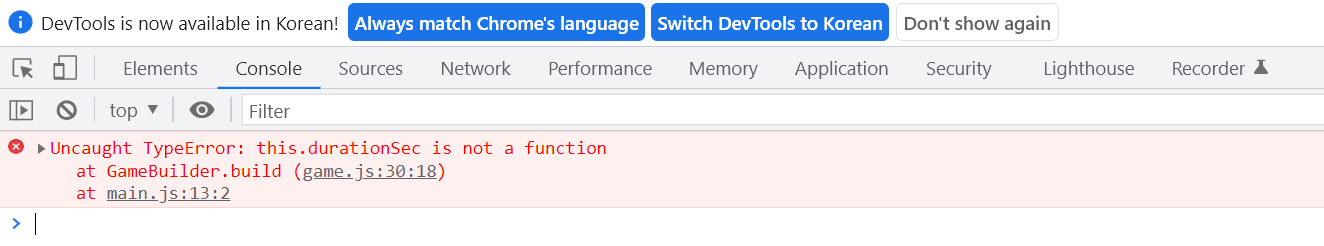
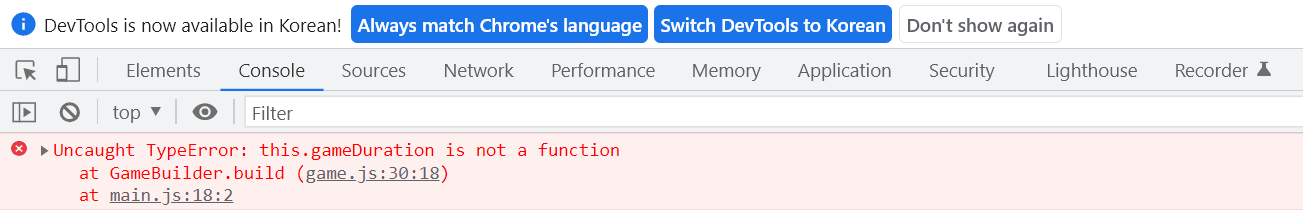
Fix image of error regarding 6-12

Changed region(s): [[0.0, 0.0, 1.0, 0.8815], [0.0, 0.8815, 1.0, 0.9953], [0.0, 0.8815, 0.0307, 0.9384]]

diff --git a/refactoring/src/game.js b/refactoring/src/game.js
@@ -27,10 +27,10 @@ export default class GameBuilder {
 
     build() {
         return new Game(
-            this.gameDuration,
-            this.carrotCount,
-            this.bugCount,
-            this.carrotSize
+            this.gameDuration(),
+            this.carrotCount(),
+            this.bugCount(),
+            this.carrotSize()
         )
     }
 }

diff --git a/README_carrot-game.md b/README_carrot-game.md
@@ -1230,26 +1230,26 @@
 
 #### 6-12.
 
-- symptom: Uncaught TypeError message was displayed on console tab such as `this.durationSec is not a function`. In addtion, `intermediate value error` occurred intermittently. I used variables on `GameBuilder` with same name variables on `Game` together at only one file. I think conflict of variable between `GameBuilder` and `Game` maybe occurred.
+- symptom: Uncaught TypeError message was displayed on console tab such as `this.durationSec is not a function`. In addtion, `intermediate value error` occurred intermittently. I used variables on `GameBuilder` with same name variables on `Game` together at only one file. I think conflict of variables between `GameBuilder` and `Game` maybe occurred.
 
 - In case of game.js,
   `export default class GameBuilder` {
   `build()` {
   `return new Game(`
-  `this.gameduration(),`
-  `this.carrotcount(),`
-  `this.bugcount(),`
-  `this.carrotsize()`
+  `this.gameDuration(),`
+  `this.carrotCount(),`
+  `this.bugCount(),`
+  `this.carrotSize()`
   )
   }
   }
 
   In case of main.js,
   `const game` = `new GameBuilder()`
-  `.gameduration(10)`
-  `.carrotcount(10)`
-  `.bugcount(10)`
-  `.carrotsize(80)`
+  `.gameDuration(10)`
+  `.carrotCount(10)`
+  `.bugCount(10)`
+  `.carrotSize(80)`
   `.build();`
 
 - <img src="./img/error8.png" width="700" height="250">
